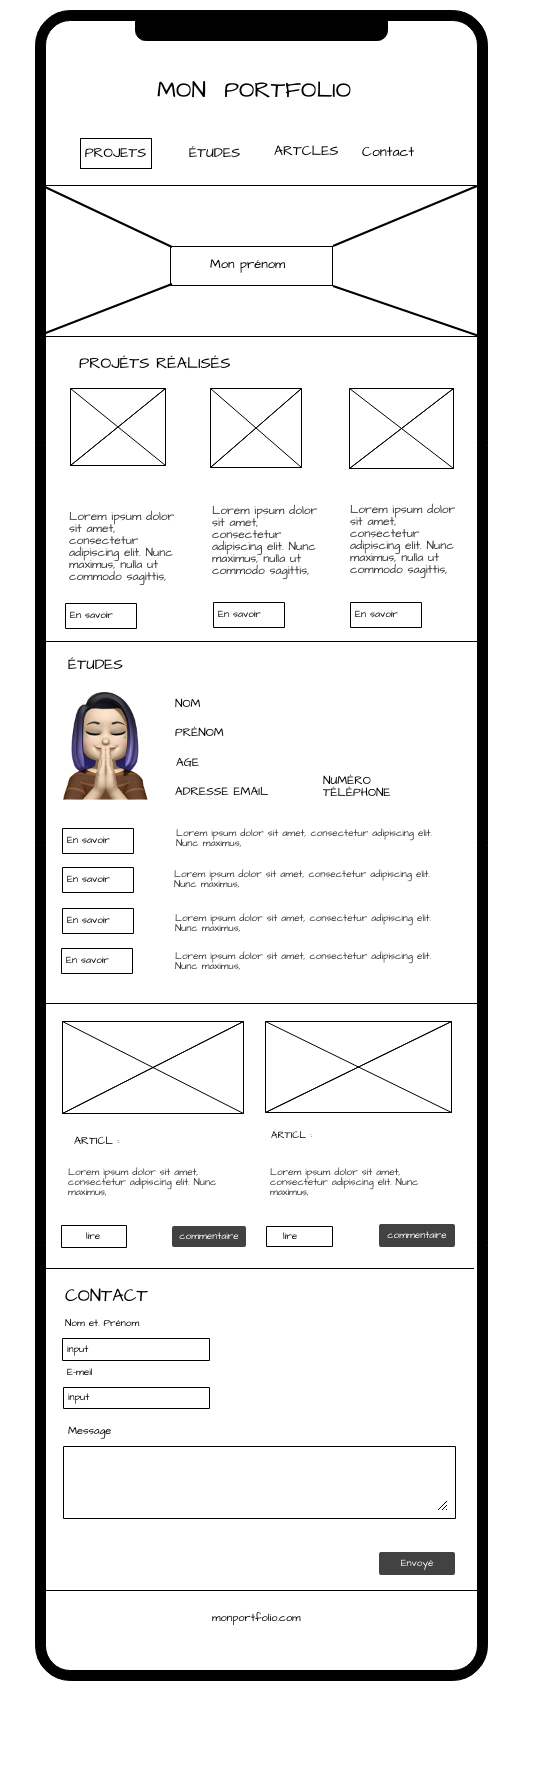
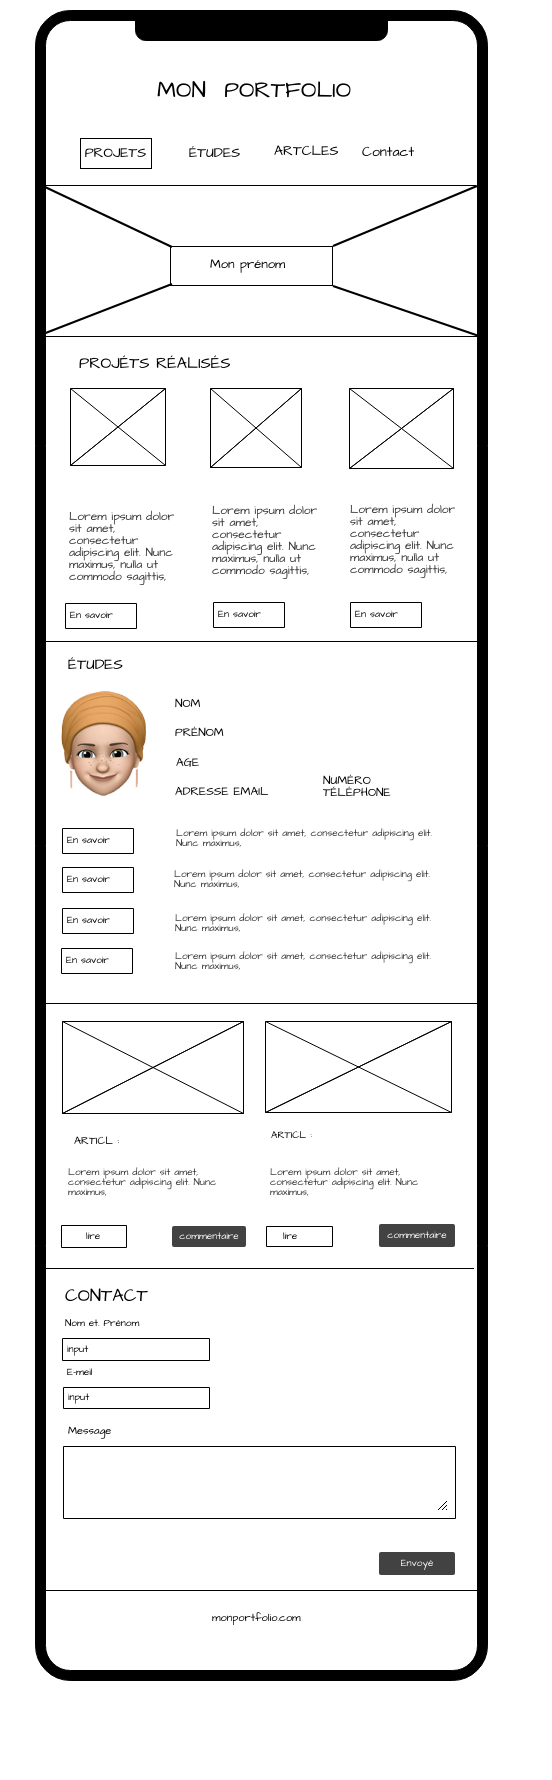
edit index and image files

Changed region(s): [[0.0924, 0.3708, 0.2772, 0.4635]]

diff --git a/index.html b/index.html
@@ -4,29 +4,39 @@
     <meta charset="UTF-8">
     <meta http-equiv="X-UA-Compatible" content="IE=edge">
     <meta name="viewport" content="width=device-width, initial-scale=1.0">
+    <link rel="stylesheet" type="text/css" href="//fonts.googleapis.com/css?family=Architects+Daughter" />
+    <link rel="stylesheet" href="style.css">
     <title>- titre - encodage (charset) - description</title>
 </head>
-<header>
-    <center><h1>MON PORTFOLIO</h1>
-    <a href="">PROJETS</a>
-    <a href=""> ÉTUDES</a>
-    <a href="">ARTCLES</a>
-    <a href="">CONTACT</a><br><br>
-    <input type="text" placeholder="          Mon pénom"></center>
-</header><br><br>
+<header class="container">
+    <nav>
+       <h1>MON PORTFOLIO</h1>
+    
+       <ul >
+          <li><a href="">PROJETS</a></li>
+          <li><a href=""> ÉTUDES</a></li>
+          <li><a href="">ARTCLES</a></li>
+          <li><a href="">CONTACT</a></li>
+       </ul>
+        
+            <input class="inp" type="text" placeholder=" Mon pénom">
+           </div>  
+     </nav> 
+</header>
 <body>
-    <div>
-    <section>
+     
+ 
+    <div class="first">
         <h2>PROJÉTS RÉALISÉS</h2>
         <img src="/image/images.jpeg" alt="image de mon projet1">
         <img src="/image/images.jpeg" alt="image de mon projet2">
         <img src="/image/images.jpeg" alt="image de mon projet3">
-    </section>
-    <section >
-        <p >Lorem ipsum dolor sit amet consectetur adipisicing elit. Aperiam nihil similique culpa itaque illum laboriosam numquam est dignissimos velit repellat, dolorem labore accusamus saepe molestiae illo, nam neque praesentium quas.</p>
+   </div>
+    <article class="par">
+        <p >Lorem ipsum dolor sit amet consectetur adipisicing elit. Aperiam nihil similique culpa itaque illum laboriosam numquam est dignissimos velit repellat, dolorem labore accusamus saepe molestiae illo, nam neque praesentium quas.</p><br>
         <p>Lorem ipsum dolor sit amet consectetur adipisicing elit. Quod nam perferendis dicta accusamus natus. Amet expedita adipisci quas, fugit pariatur eos eaque. Corrupti dolore corporis reprehenderit odit sequi ad a!</p>
         <p>Lorem ipsum dolor sit amet consectetur adipisicing elit. Ab eum, inventore consectetur eaque laborum at ullam soluta odit dolore facere eveniet minima tempora voluptate eligendi. Deserunt voluptates voluptatum eius perspiciatis.</p>
-    </section>
+    </article>
     <section>
         <center><button name="">En savoir</button>
         <button>En savoir</button>
@@ -36,12 +46,14 @@
 <div>
     <section>
         <h3>ÉTUDES</h3>
-        <img src="/image/M7ffd0acb42cff472352ed329523fde9a1625632765769.png" alt="photo">
+        <img src="/image/Mb74641a8d117143dc50806d74742d32c1625633163813.png" alt="photo">
+        <div class="elem1">
         <p>NOM</p>
         <p>PRÉNOM</p>
         <p>AGE</p>
         <p>ADRESSE EMAIL</p>
         <p>NUMÉRO TÉLÉPHONE</p>
+    </div>
     </section>
     <section>
         <div>
@@ -49,26 +61,27 @@
             <p>Lorem ipsum dolor, sit amet consectetur adipisicing elit. Enim, doloremque?</p>
        </div>
        <div>
-            <button name="">En savoir</button>
+            <button name="but">En savoir</button>
             <p>Lorem ipsum dolor, sit amet consectetur adipisicing elit. Enim, doloremque?</p>
       </div>
       <div>
-            <button name="">En savoir</button>
+            <button name="but">En savoir</button>
             <p>Lorem ipsum dolor, sit amet consectetur adipisicing elit. Enim, doloremque?</p>
        </div>
        <div>
             <button name="">En savoir</button>
-            <p>Lorem ipsum dolor, sit amet consectetur adipisicing elit. Enim, doloremque?</p>
+            <p>Lorem ipsum dolor, sit amet consectetur adipisicing elit. Enim, doloremque?</p><br><br>
        </div>
     </section>
      <section>
-         <div></div>
+         
                 <img src="/image/téléchargé.jpeg" alt="">
+                <h4>ARTICL</h4>      
                 <img src="/image/téléchargé.jpeg" alt="">
                 </div>
-         <div>
-                <h4>ARTICL</h4>      <h4>ARTICL</h4>
-         </div>
+         
+               <h4>ARTICL</h4>
+        
         <div>
                 <p>Lorem ipsum dolor sit amet consectetur, adipisicing elit. Voluptas, praesentium.</p>
                 <p>Lorem ipsum dolor sit amet consectetur, adipisicing elit. Eius, dolorem?</p>

diff --git a/style.css b/style.css
@@ -1,0 +1,65 @@
+*{
+    font-family:architects daughter;
+   
+ 
+    
+}
+.container{
+     display: inline;
+    text-align: center;
+    height: 100px;
+  
+}
+ul{
+     display:inline-flex;
+     
+    text-align: center;
+    justify-content: center;
+}
+nav ul li{
+    
+    text-align: center;
+    list-style-type:none;
+    margin: 20px;;
+    
+   
+}
+h1{
+    font-family:fantasy ;
+    font-size: 18px;
+}
+a{
+   text-decoration: none;
+   text-align: center;
+   color: black;
+    margin: 10px;
+    font-size: 18px;
+}
+.first{
+    margin:40px;
+}
+
+
+.inp{
+    display:block;
+    text-align: center;
+    margin-left:40%; ;
+}
+img{
+    display:inline-flex;
+    border-radius: 3px ;
+    opacity: 0.5;
+}
+img:hover {
+    opacity: 1.0;
+  }
+
+
+
+.elelm1{
+    display: block;
+    text-align: center;
+}
+.elem2{
+    display:inline-block;
+}
